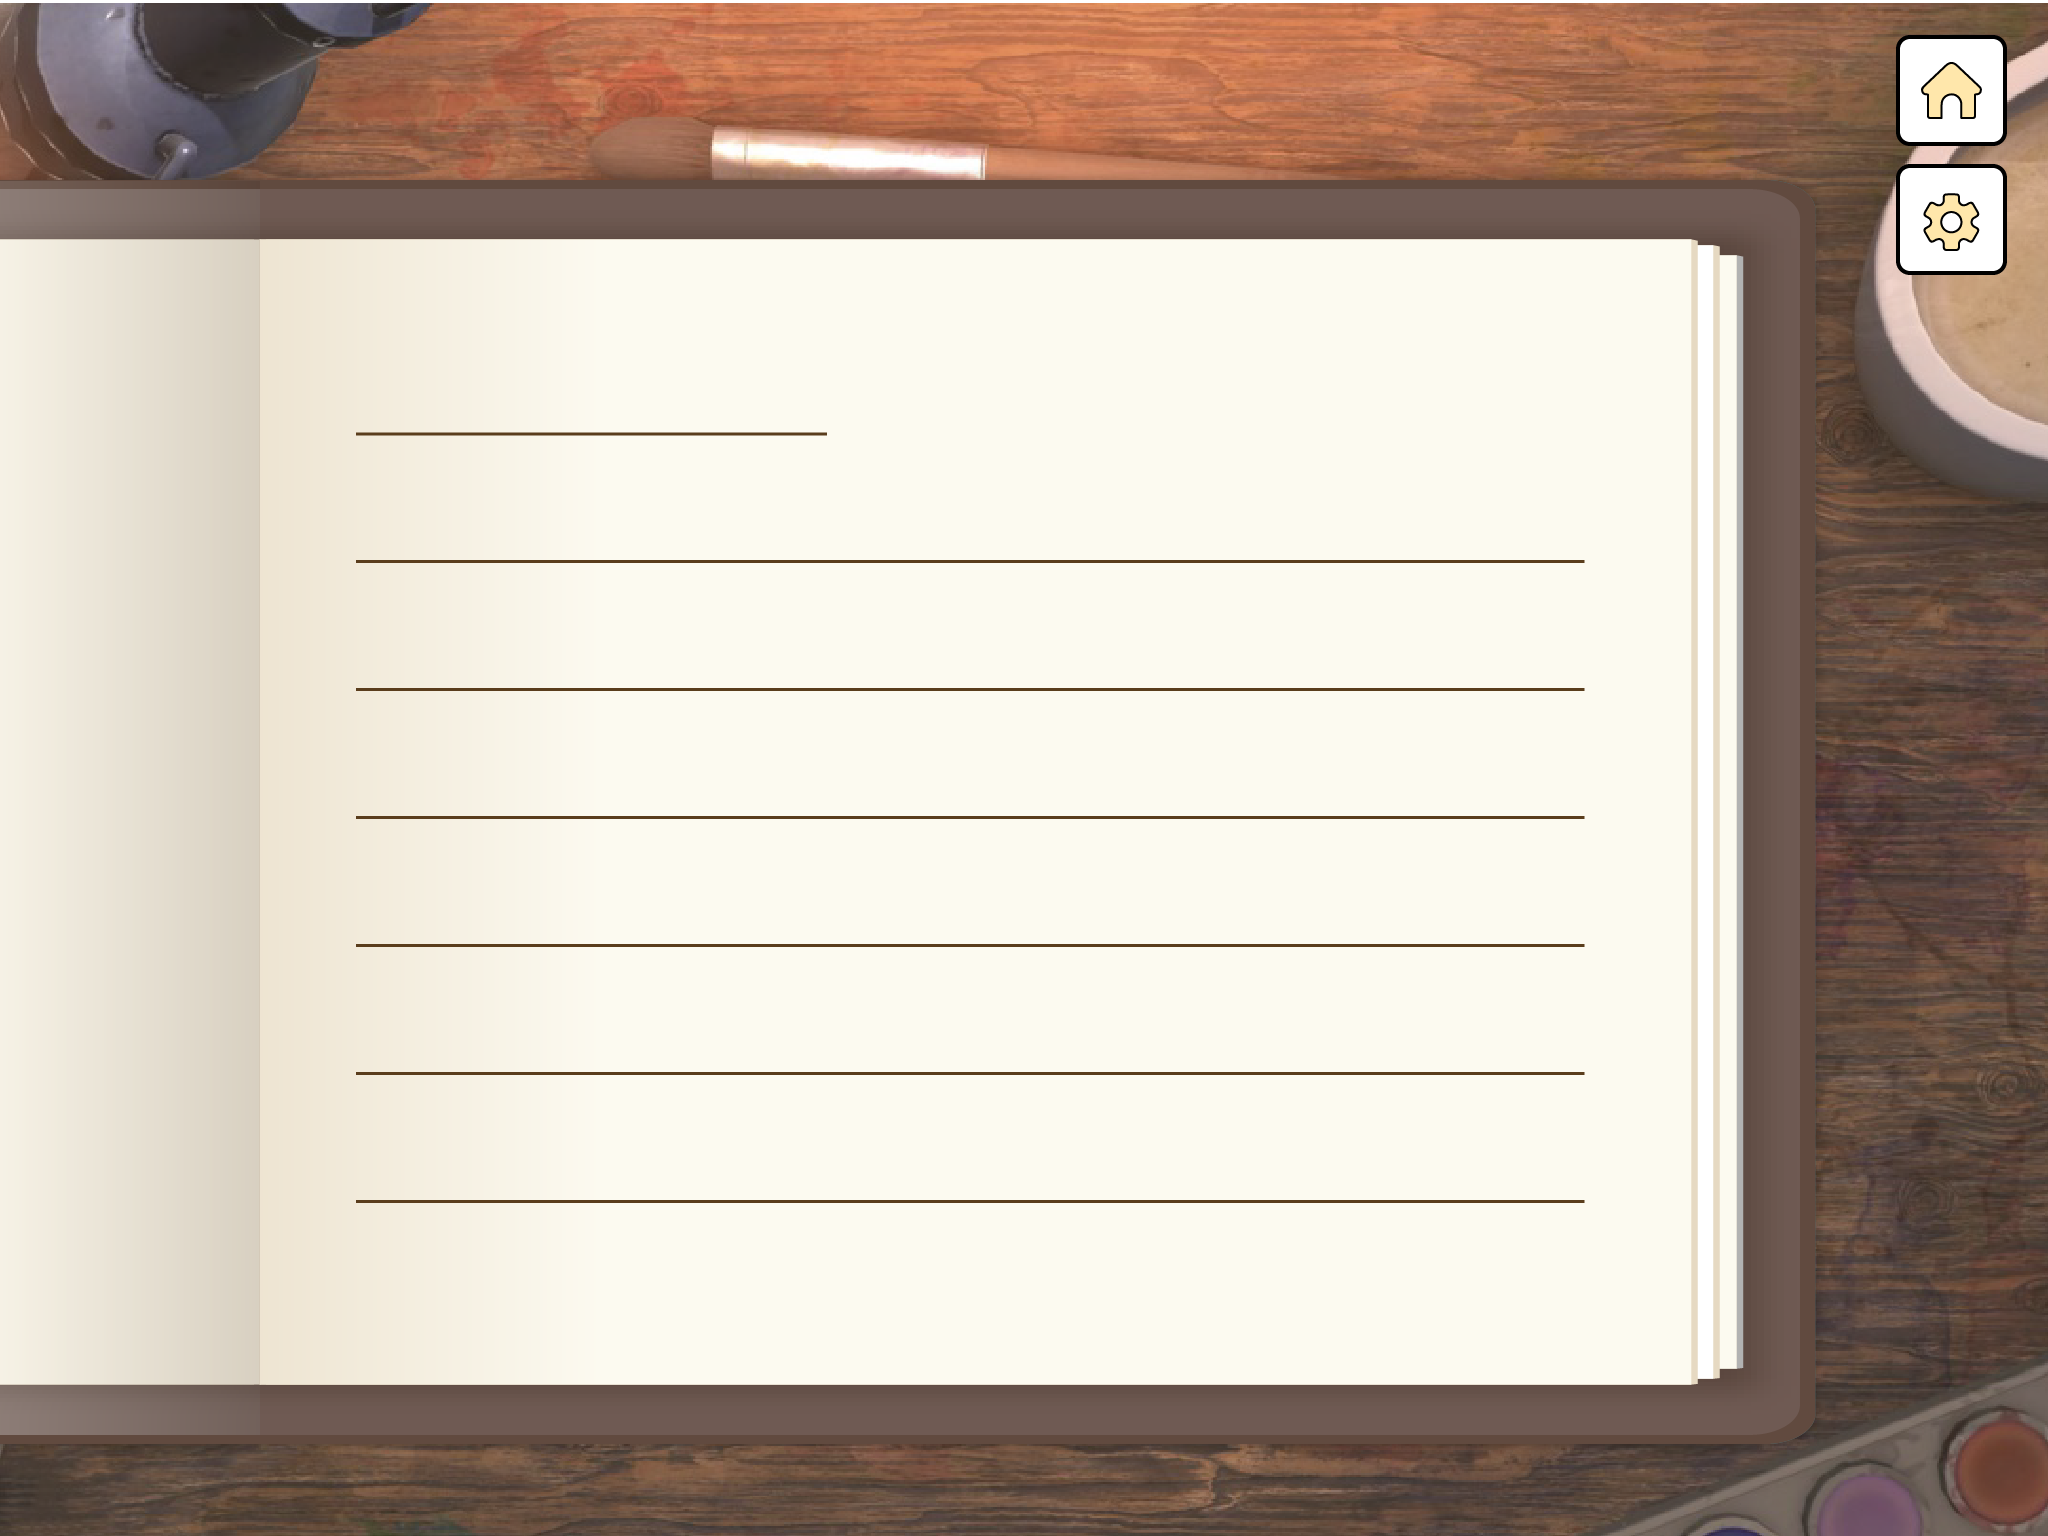
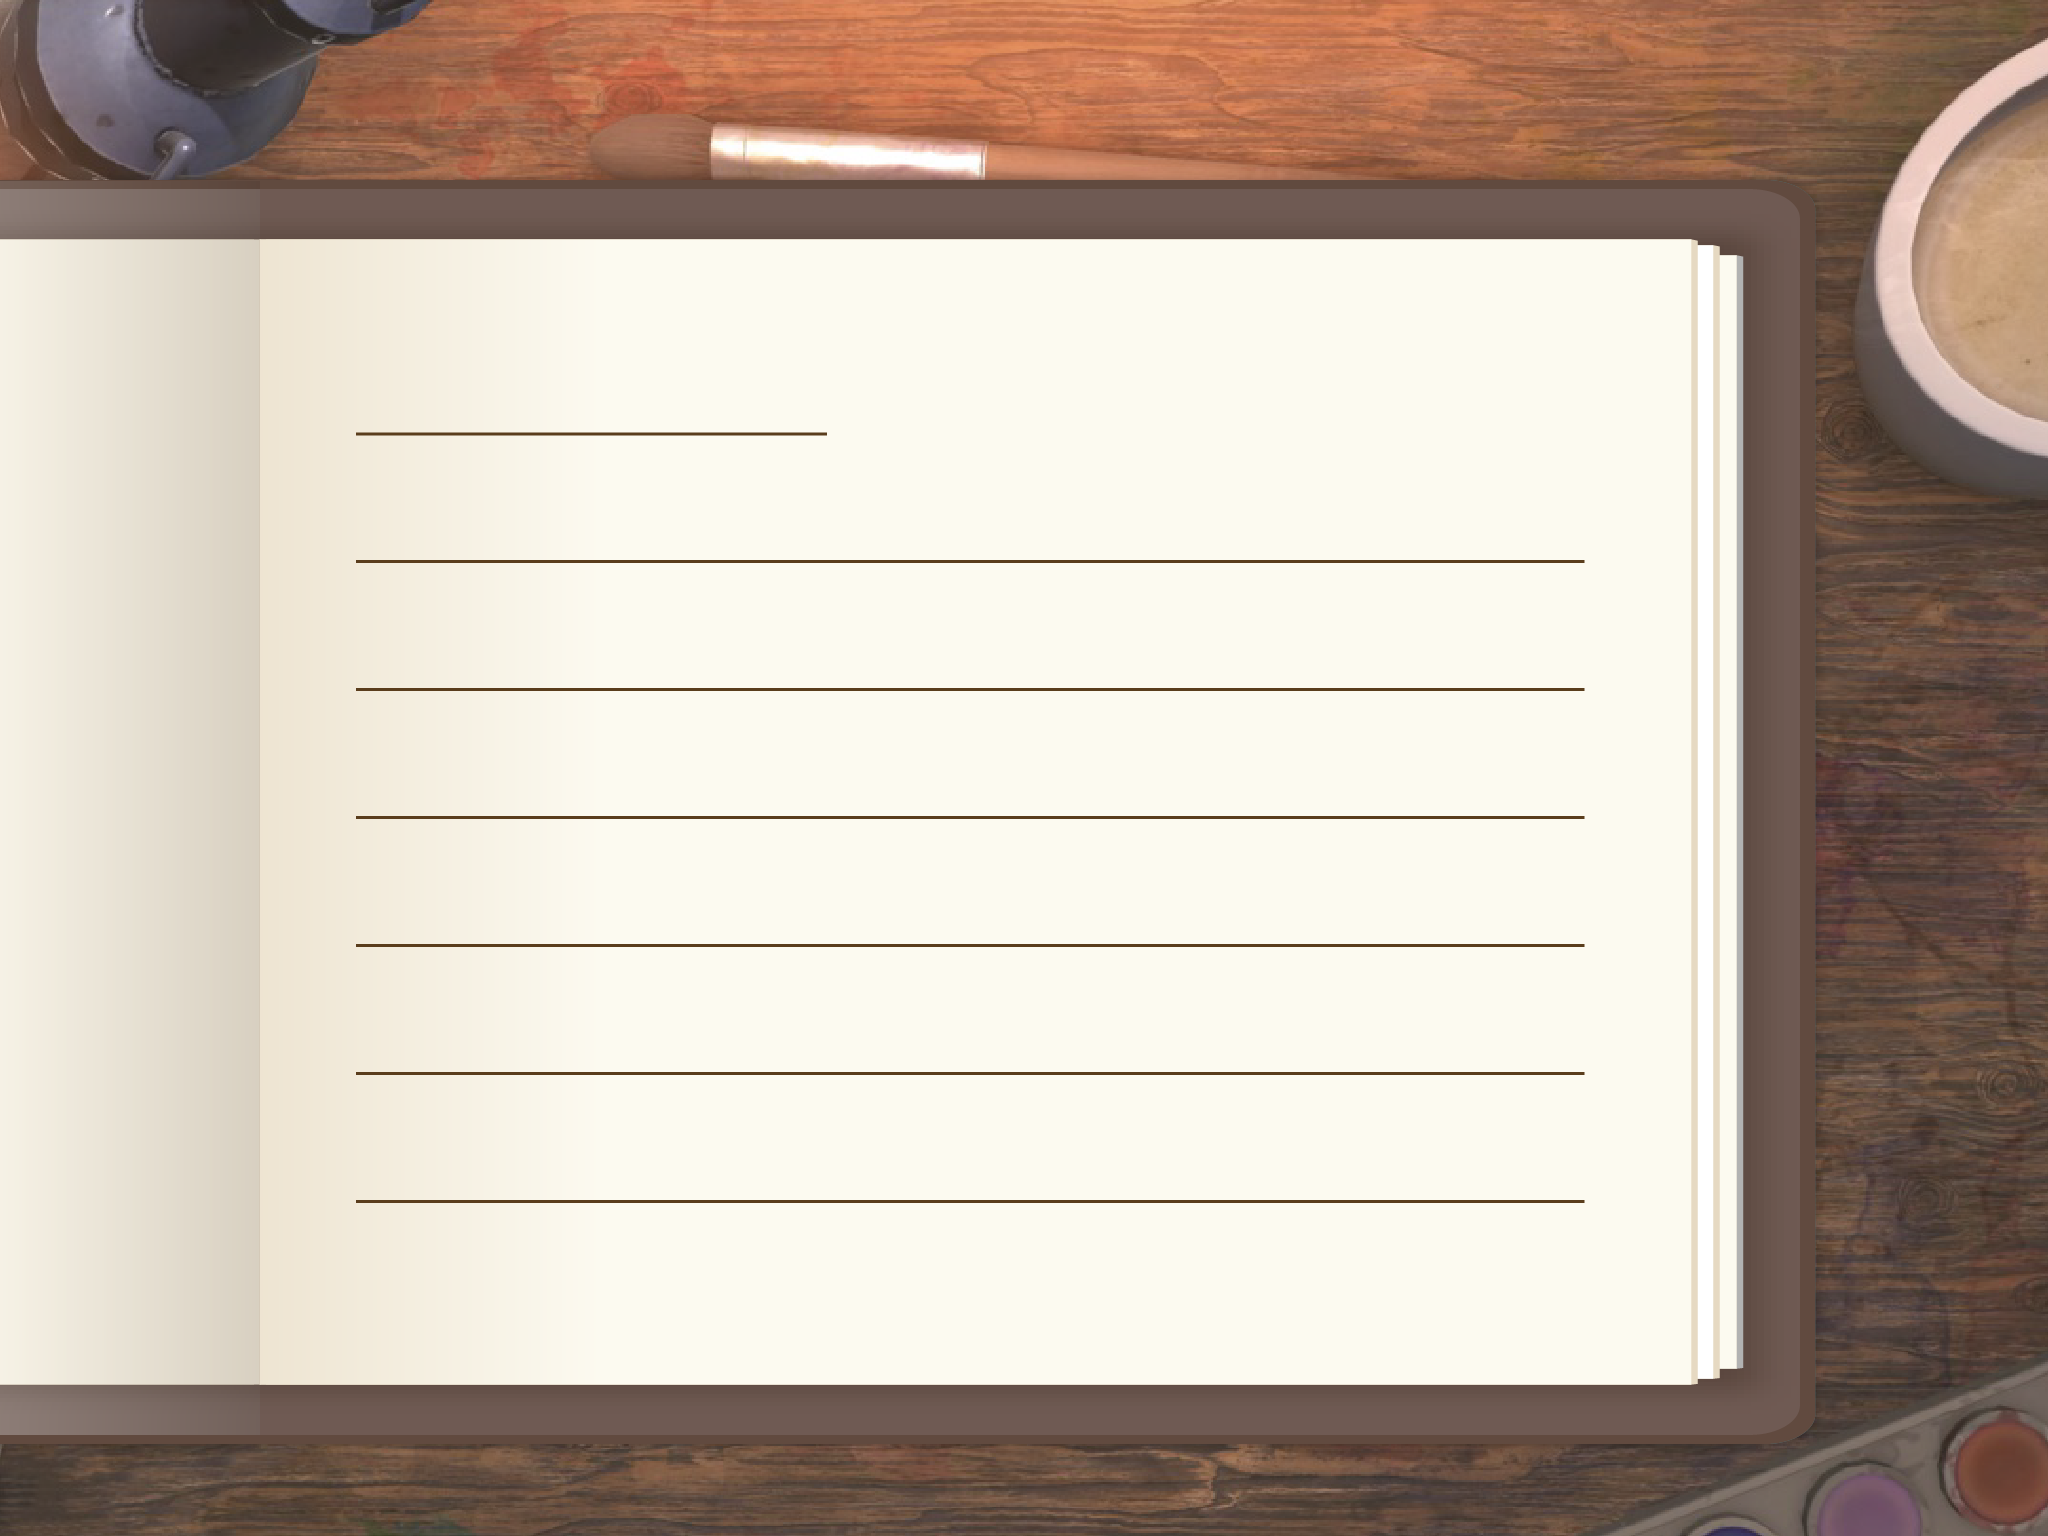
물감 및 펜 이미지 변경

diff --git a/diary.html b/diary.html
@@ -16,18 +16,23 @@
         <canvas class="diary--canvas" width="718" height="574">
         </canvas>
     </div>
-    <div class="buttons">
-        <button class="button__item--red"></button>
-        <button class="button__item--blue"></button>
-        <button class="button__item--green"></button>
-        <button class="button__item--black"></button>
-        <!-- <button class="button__item--white"></button> -->
-        <div class="button__item--reset"></div>
+    <div class="buttons__wrap">
+        <img src="images/diary/b_home.png" alt="" class="button__home">
+        <img src="images/diary/b_again.png" alt="" class="button__again">
     </div>
-    <div class="buttons size">
-        <button class="button__item--light"></button>
-        <button class="button__item--regular"></button>
-        <button class="button__item--bold"></button>
+    <div class="buttons__wrap">
+        <div class="buttons color">
+            <img src="images/diary/r_red.png" alt="diary-button" class="button__item--red">
+            <img src="images/diary/r_yellow.png" alt="diary-button" class="button__item--yellow">
+            <img src="images/diary/r_green.png" alt="diary-button" class="button__item--green">
+            <img src="images/diary/r_blue.png" alt="diary-button" class="button__item--blue">
+            <img src="images/diary/r_black.png" alt="diary-button" class="button__item--black">
+        </div>
+        <div class="buttons size">
+            <img src="images/diary/r_right.png" alt="diary-button" class="button__item--light">
+            <img src="images/diary/r_middle.png" alt="diary-button" class="button__item--regular">
+            <img src="images/diary/r_bold.png" alt="diary-button" class="button__item--bold">   
+        </div>
     </div>
     <script type="text/javascript" src="./js/drawing.js"></script>
     <script type="text/javascript" src="./js/diary.js"></script>

diff --git a/js/diary.js b/js/diary.js
@@ -1,14 +1,15 @@
 const canvas = document.querySelector(".diary--canvas");
 const ctx = canvas.getContext("2d");
 const buttonItemRed = document.querySelector(".button__item--red");
-const buttonItemBlue = document.querySelector(".button__item--blue");
+const buttonItemYellow = document.querySelector(".button__item--yellow");
 const buttonItemGreeen = document.querySelector(".button__item--green");
+const buttonItemBlue = document.querySelector(".button__item--blue");
 const buttonItemBlack = document.querySelector(".button__item--black");
 const buttonItemLight = document.querySelector(".button__item--light");
 const buttonItemRegular = document.querySelector(".button__item--regular");
 const buttonItemBold = document.querySelector(".button__item--bold");
-// const buttonItemWhite = document.querySelector(".button__item--white");
-const buttonItemReset = document.querySelector(".button__item--reset");
+const buttonHome = document.querySelector(".button__home");
+const buttonAgain = document.querySelector(".button__again");
 
 initCanvas(canvas);
 
@@ -16,11 +17,15 @@ buttonItemRed.onclick = () => setStrokeColor("red");
 buttonItemBlue.onclick = () => setStrokeColor("blue");
 buttonItemGreeen.onclick = () => setStrokeColor("green");
 buttonItemBlack.onclick = () => setStrokeColor("#333");
-// buttonItemWhite.onclick = () => setStrokeColor("#fff");
-buttonItemReset.onclick = () => ctx.clearRect(0, 0, canvas.width, canvas.height);
+buttonItemYellow.onclick = () => setStrokeColor("yellow");
 buttonItemLight.onclick = () => setStrokeWidth(2);
 buttonItemRegular.onclick = () => setStrokeWidth(6);
 buttonItemBold.onclick = () => setStrokeWidth(10);
+buttonHome.onclick = () => location.href = 'main.html';
+buttonAgain.onclick = () => {
+    ctx.beginPath();
+    ctx.clearRect(0, 0, canvas.width, canvas.height);
+}
 
 function setStrokeColor(color) {
     ctx.beginPath();

diff --git a/css/diary.css b/css/diary.css
@@ -39,52 +39,32 @@
     top: 15.5%;
     touch-action: none;
 }
-.buttons {
-    width: 3rem;
+.buttons__wrap {
+    width: 5rem;
     height: max-content;
     position: absolute;
-    right: 1rem;
-    top: 20%;
+    top: 30%;
+    right: 0;
+}
+.buttons__wrap:nth-child(3) {
+    top: .75rem;
+}
+.buttons__wrap:nth-child(3) > img {
+    width: 4rem;
+    margin-top: .25rem;
+}
+.buttons {
     display: flex;
     flex-flow: column nowrap;
-    padding: 1.5rem;
+    position: relative;
 }
-.buttons > button {
-    width: 3rem;
-    height: 3rem;
-    border-radius: 50%;
-    border: .5rem solid #fff;
+.buttons > img {
     margin-top: .75rem;
 }
-.button__item--red {
-    background-color: red;
-}
-.button__item--blue {
-    background-color: blue;
-}
-.button__item--green {
-    background-color: green;
-}
-.button__item--black {
-    background-color: #333;
-}
-/* .button__item--white {
-    background-color: #fff;
-} */
-.button__item--reset {
-    width: 3rem;
-    height: 3rem;
-    background-color: #fff;
-    margin-top: 2rem;
-}
-.button__item--light {
-    
-}
-
-.button__item--regular {
-}
-.button__item--bold {
+.buttons.color {
+    width: 4rem;
+    right: -1rem;
 }
 .buttons.size {
-    right: 5rem;
+    margin-top: 1rem;
 }

diff --git a/index.html b/index.html
@@ -1,0 +1,16 @@
+<!DOCTYPE html>
+<html lang="ko">
+<head>
+    <meta charset="UTF-8">
+    <meta http-equiv="X-UA-Compatible" content="IE=edge">
+    <meta name="viewport" content="width=device-width, initial-scale=1.0">
+    <link rel="stylesheet" href="css/common.css">
+    <link rel="stylesheet" href="css/index.css">
+    <title>Project</title>
+</head>
+<body>
+    <div class="first background">
+        <button class="start"></button>
+    </div>
+</body>
+</html>

diff --git a/css/index.css b/css/index.css
@@ -1,0 +1,15 @@
+.first {
+    background-image: url('../images/background/d_first.png');
+    height: 100vh;
+    display: flex;
+    align-items: center;
+    justify-content: center;
+}
+.start {
+    background-color: transparent;
+    width: 15rem;
+    height: 4.5rem;
+    top: 29.5%;
+    position: relative;
+    border: none;
+}
